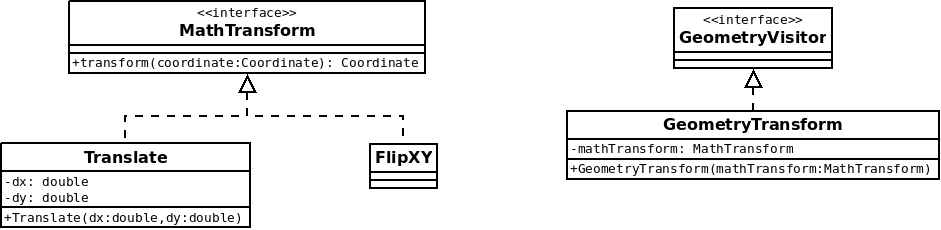
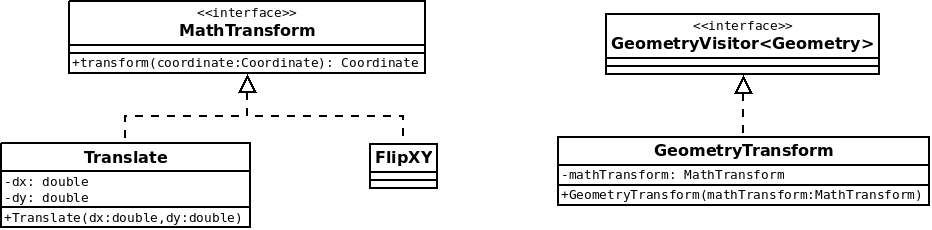
tp-geometry - précision question 0.20 / ajout 0.21

diff --git a/annexe/tp-geometry/index.html b/annexe/tp-geometry/index.html
@@ -44,6 +44,7 @@
 <li><a href="#0-18-geometryvisitor-renvoyant-un-r-sultat">0.18 - GeometryVisitor renvoyant un résultat</a></li>
 <li><a href="#0-19-extraction-de-astext-">0.19 - Extraction de asText()</a></li>
 <li><a href="#0-20-mathtransform-pour-des-transformation-plus-g-n-rique">0.20 - MathTransform pour des transformation plus générique</a></li>
+<li><a href="#0-21-finaliser-une-version-potable">0.21 - Finaliser une version potable</a></li>
 <li><a href="#aller-plus-loin-">Aller plus loin...</a></li>
 </ul>
 <h2 id="introduction"><a href="#introduction" class="anchor"></a>Introduction</h2><p>L&#39;objectif de ce TP est de s&#39;exercer à mettre oeuvre des patrons de conception via la création d&#39;une petite bibliothèque de manipulation des géométries OGC :</p>
@@ -261,6 +262,13 @@ Double result = geometry.accept(visitor);</code></pre>
 <h2 id="0-19-extraction-de-astext-"><a href="#0-19-extraction-de-astext-" class="anchor"></a>0.19 - Extraction de asText()</h2><p>Sortir <code>Geometry.asText() : String</code> sous forme d&#39;une méthode statique <code>WKT.asText(Geometry g) : String</code></p>
 <h2 id="0-20-mathtransform-pour-des-transformation-plus-g-n-rique"><a href="#0-20-mathtransform-pour-des-transformation-plus-g-n-rique" class="anchor"></a>0.20 - MathTransform pour des transformation plus générique</h2><p>On va faire en sorte de sortir <code>translate(dx,dy)</code> de la classe <code>Geometry</code> tout en permettant des transformations plus riches.</p>
 <p><img src="schema/mcd-20.png" alt="Schéma UML 20"></p>
+<p>Remarque : On renverra des copies des géométries dans <code>GeometryTransform</code> (appeler <code>notifyChange</code> sera innutile)</p>
+<h2 id="0-21-finaliser-une-version-potable"><a href="#0-21-finaliser-une-version-potable" class="anchor"></a>0.21 - Finaliser une version potable</h2><ul>
+<li>Remarquer que la suppression de translate sur <code>Geometry</code> permet de les rendre immuable</li>
+<li>Supprimer par conséquent les mécanismes d&#39;événement sur les géométries (c&#39;est généralement une mauvaise idée sur des classes bas niveau)</li>
+<li>Organiser les classes en package <code>model</code>, <code>io</code>, <code>transform</code>, <code>helper</code>, etc.</li>
+<li>Améliorer la couverture des tests</li>
+</ul>
 <h2 id="aller-plus-loin-"><a href="#aller-plus-loin-" class="anchor"></a>Aller plus loin...</h2><p>Idées pour la suite :</p>
 <ul>
 <li><p>Implémenter une classe <code>GeoJSONReader</code></p>
